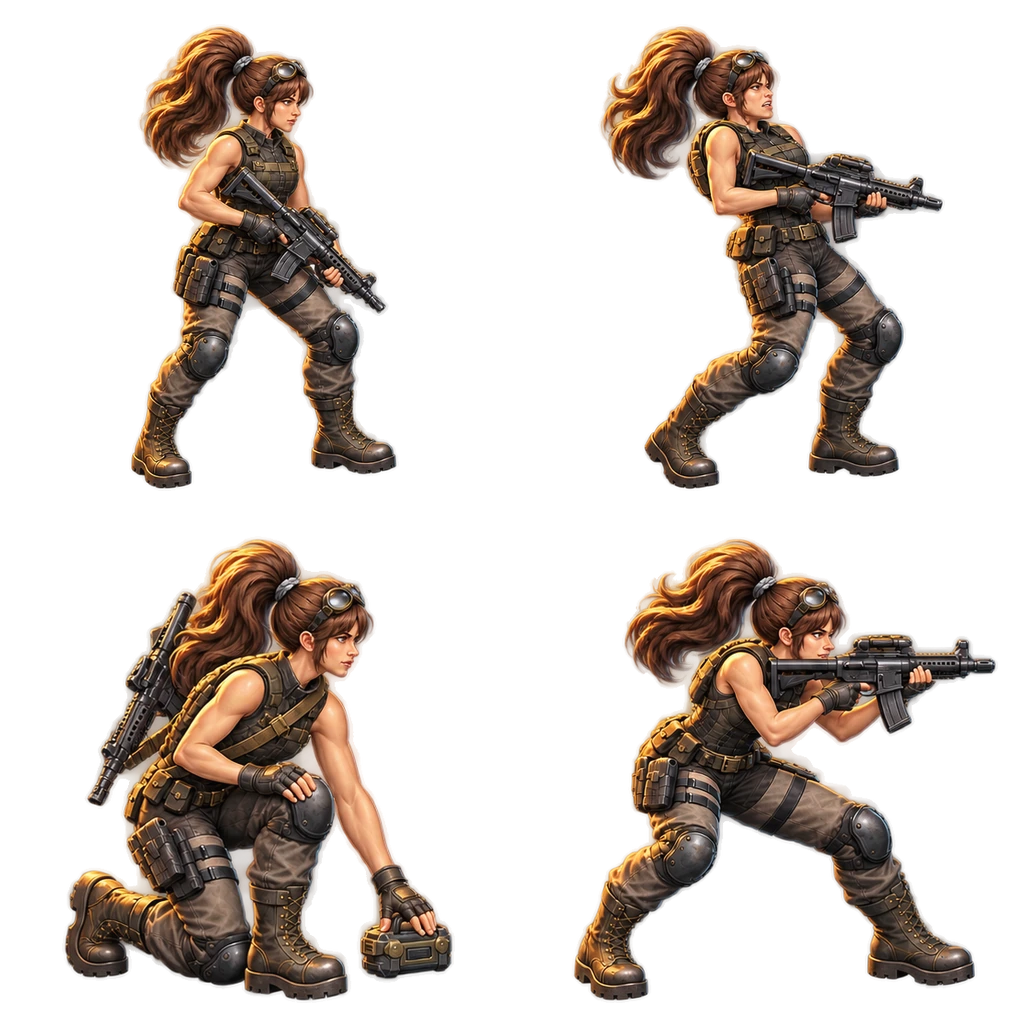
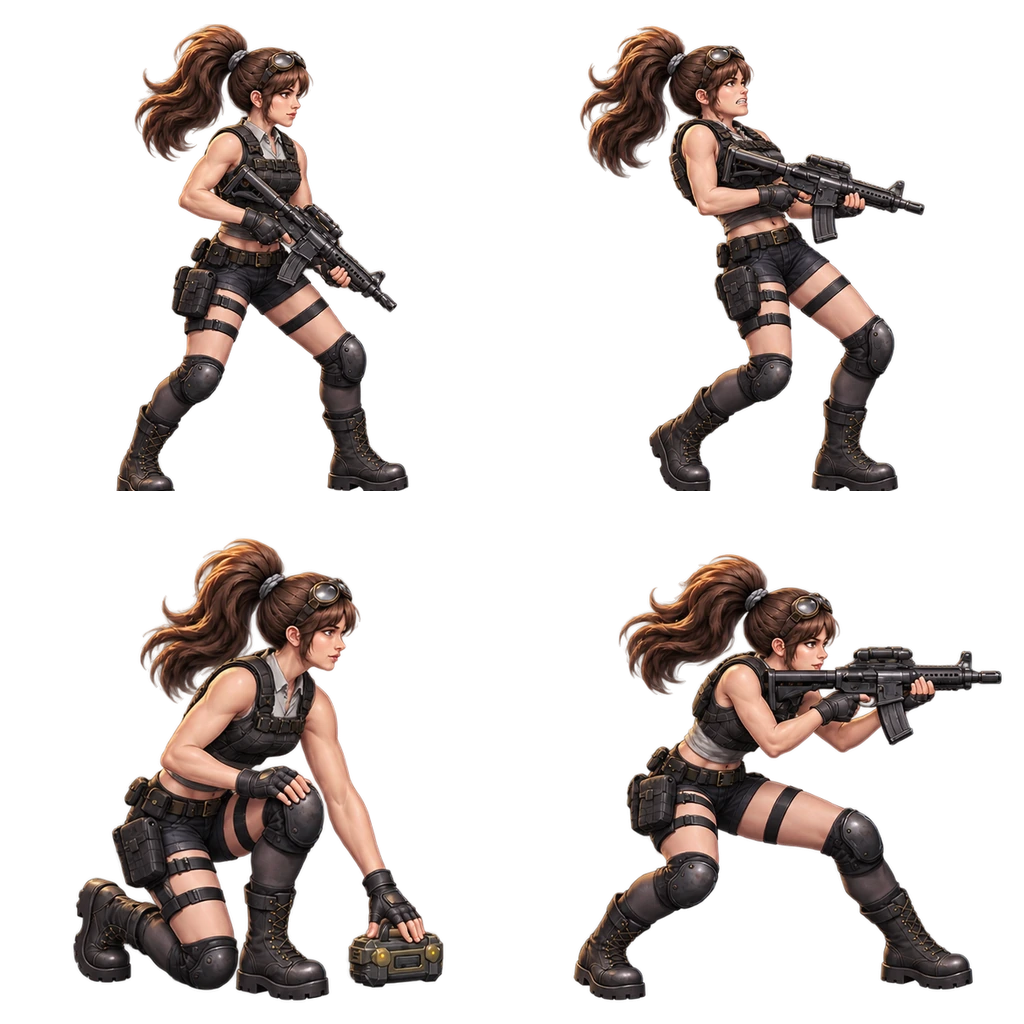
Match the playable female survivor to the original combat concept

diff --git a/index.html b/index.html
@@ -1720,17 +1720,17 @@ function drawIllustratedEnemy(enemy,fallen){
   }
 }
 const muzzleAnchors={
-  'hero-ready':[0.879,0.779],
-  'hero-step-a':[0.871,0.782],
-  'hero-step-b':[0.898,0.785],
-  'hero-fire':[0.826,0.846],
+  'hero-ready':[0.855,0.77],
+  'hero-step-a':[0.85,0.77],
+  'hero-step-b':[0.895,0.779],
+  'hero-fire':[0.809,0.832],
   male:[.966,.693],
   'male-ready':[0.955,0.824],
   'male-step-a':[0.926,0.824],
   'male-step-b':[0.93,0.828],
   'male-fire':[0.904,0.875],
   'male-brace':[0.957,0.707],
-  'hero-brace':[0.943,0.701]
+  'hero-brace':[0.955,0.678]
 };
 
 updateHUD();loop();</script></body></html>

diff --git a/DESIGN-2D5-STATUS.md b/DESIGN-2D5-STATUS.md
@@ -86,3 +86,8 @@ Browser preview reached WebGL initialization error. No actual gameplay or mobile
 - Repainted both survivors' eight combat poses at higher source detail. The production atlases use 512 px square cells, a shared foot-contact baseline, and mipmap filtering for clean edges on phones.
 - Increased the combat presentation size while retaining view margins at the left and right movement limits. Added a warm muzzle-light response on the player's artwork.
 - The character picker previews the actual combat artwork. Gameplay collisions, movement, and weapon timing are kept independent of the art size.
+
+## Original concept survivor
+
+- The default female survivor now uses the outfit and facial direction from the original combat concept. The gray sleeveless top, black shorts, thigh rig, knee guards, goggles and ponytail carry across all eight normal combat and reaction frames.
+- The selector uses the same world artwork, the portrait follows the reference portrait, and the muzzle overlay was recalibrated for the new silhouette.
